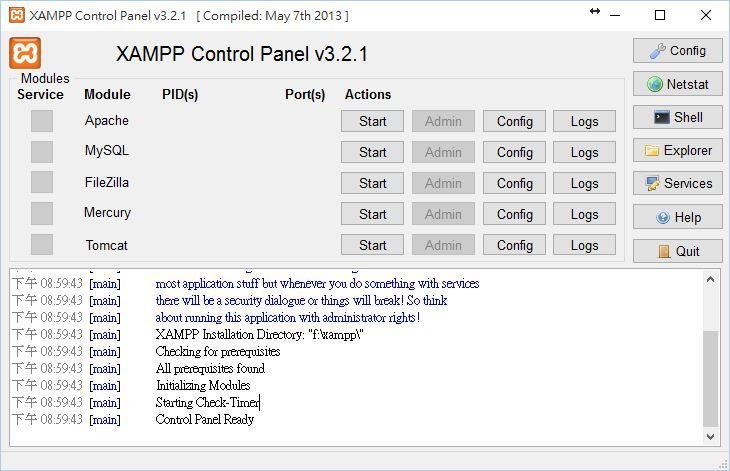
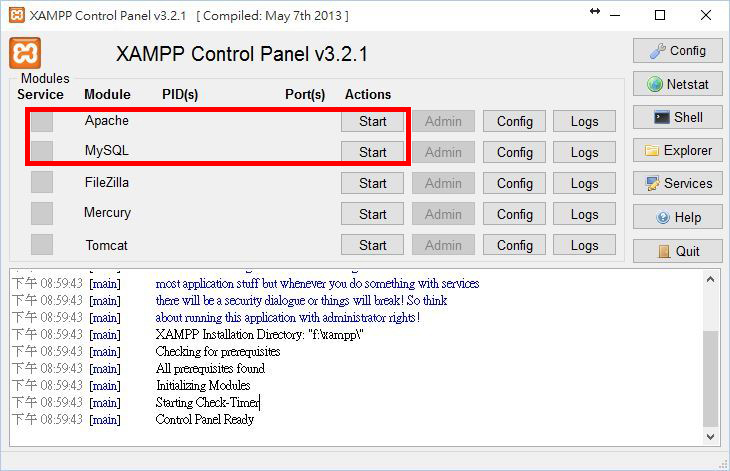
Updates images/xampp-image.jpg
Auto commit by GitBook Editor

Changed region(s): [[0.0301, 0.2081, 0.5726, 0.3567]]

diff --git a/huan-jing-pei-zhi-yu-yun-xing.md b/huan-jing-pei-zhi-yu-yun-xing.md
@@ -27,7 +27,8 @@
 - Windows - [XAMPP](https://www.apachefriends.org/zh_tw/index.html)
 
   ▼ 预设为 **80 port** ，把 Apache & MySQL 打開，如下圖：
-  [XAMPP](/images/xampp-image.jpg)
+  
+  ![XAMPP](/images/xampp-image.jpg)
 
 安装完后，开启架站软体（MAMP 或 XAMPP），确认工具可正常使用。
 
@@ -41,7 +42,7 @@
 或
 
 > \# commandline
-> git clone https://github.com/shinho-github-name/star-dev-server.git
+> git clone https://github.com/shinho-github-name/star-dev-server.git   # 仅示意，非切确 URL
 
 ### Step3.安装开发时依赖的相关插件
 
@@ -52,7 +53,7 @@ install 指令会参照 `package.json` 罗列的配置，进行安装所需的 p
 
 ### Step4.启动开发架站软体
 
-设置架站软体（MAMP 或 XAMPP），将网站根目录指向 `/public` ， Host 名称设为 laravel http://laravel/ （可自行命名）
+设置架站软体（MAMP 或 XAMPP），将网站根目录指向 `/public` ， Host 名称设为 laravel  `http://laravel/` （可自行命名）
 
 ### Step5.汇入数据库
 
@@ -63,6 +64,9 @@ install 指令会参照 `package.json` 罗列的配置，进行安装所需的 p
 3. 汇入数据库
 
 
+> **[info] For info**
+>
+> 密码洽欣和春涛
 
 ### Step6.汇入图档
 
